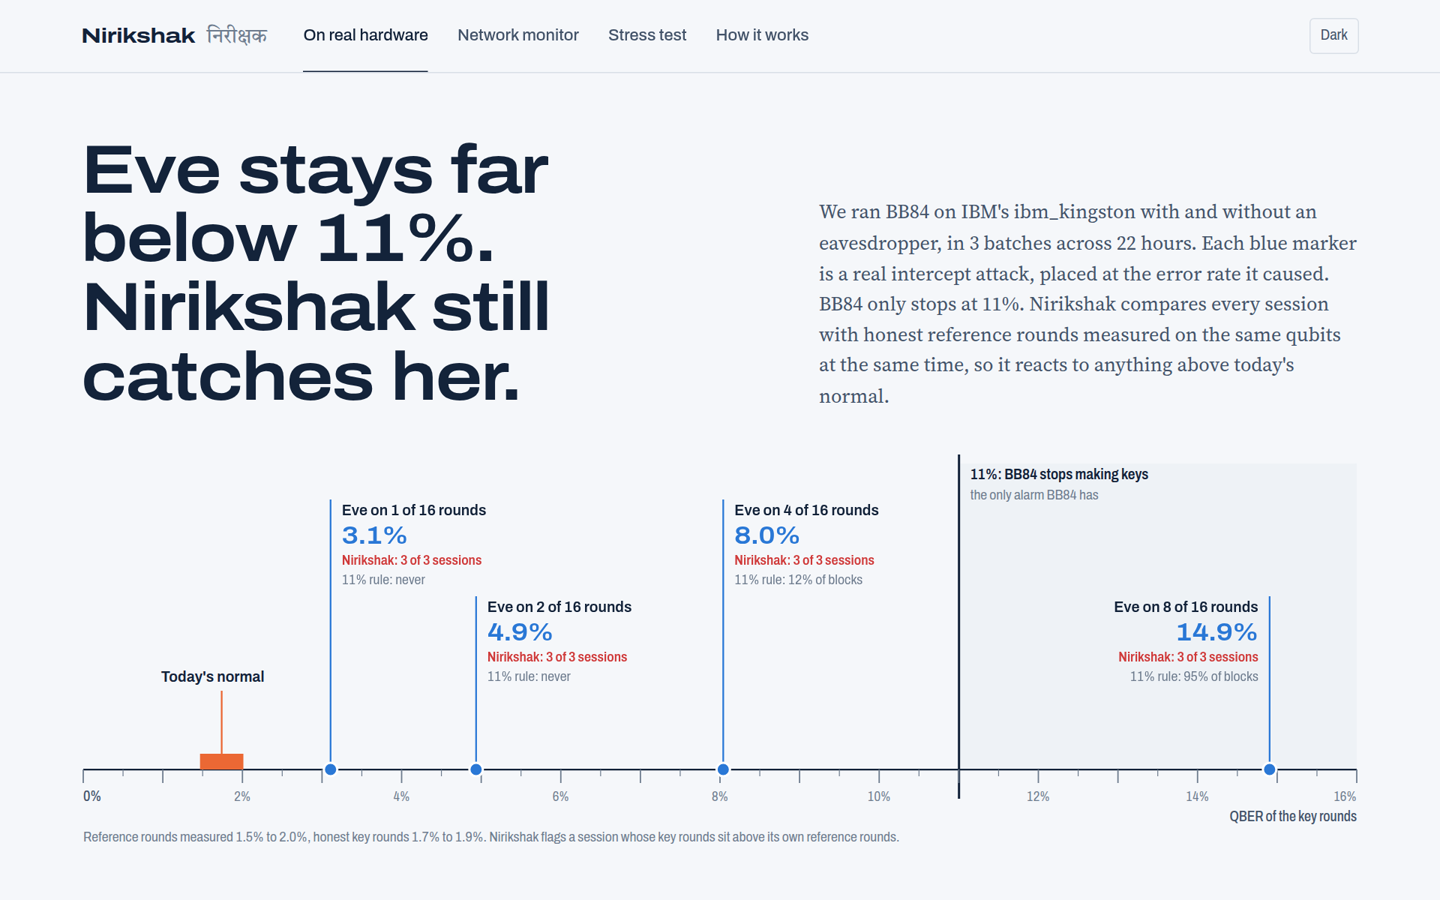
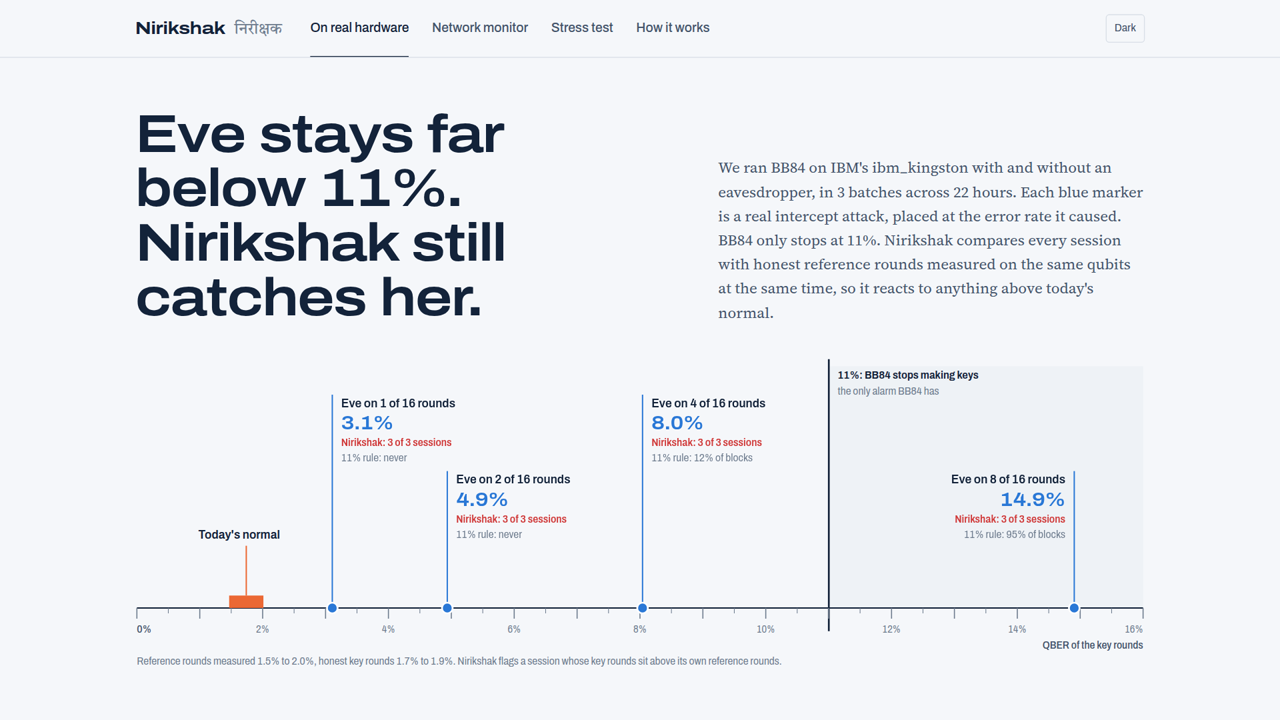
docs: play the demo in the README and match the preview sizes
- Embed the first two minutes of the demo (title card and explainer,
  9.5 MB, uploaded to GitHub) so it plays in the README; the full 4:46
  video stays on YouTube.
- Re-capture the web app screenshot at 16:9 and use YouTube's 16:9
  thumbnail, so the two previews under the project table are the
  same size.

diff --git a/README.md b/README.md
@@ -37,12 +37,17 @@ honest blocks once noise shifted.
 | **Live app** | [vtu-qiskit-fall-fest-2026.github.io/vtu-hc-essential-engineers](https://vtu-qiskit-fall-fest-2026.github.io/vtu-hc-essential-engineers/) |
 | **Slides** | [PDF](docs/VTU-QFF-HC-0173.pdf) · [PPTX](docs/VTU-QFF-HC-0173.pptx) |
 
-<a href="https://vtu-qiskit-fall-fest-2026.github.io/vtu-hc-essential-engineers/"><img src="docs/web_app.png" alt="Nirikshak web app: real ibm_kingston attacks against the 11% rule" width="58%"></a>
-<a href="https://youtu.be/gO9v1e-yHNs"><img src="https://img.youtube.com/vi/gO9v1e-yHNs/hqdefault.jpg" alt="Watch the 4:46 demo video" width="38%"></a>
+<a href="https://vtu-qiskit-fall-fest-2026.github.io/vtu-hc-essential-engineers/"><img src="docs/web_app.png" alt="Nirikshak web app: real ibm_kingston attacks against the 11% rule" width="49%"></a>
+<a href="https://youtu.be/gO9v1e-yHNs"><img src="https://img.youtube.com/vi/gO9v1e-yHNs/maxresdefault.jpg" alt="Watch the 4:46 demo video" width="49%"></a>
 
-*Left: the live app (every marker is a real attack on `ibm_kingston`). Right: the demo video.*
+*Left: the live app (every marker is a real attack on `ibm_kingston`). Right: the full demo video on YouTube.*
 
 </div>
+
+**Watch here:** the first two minutes of the demo (the problem, how Nirikshak works, the results). The full
+4:46 video, including the tour of the app, is on [YouTube](https://youtu.be/gO9v1e-yHNs).
+
+https://github.com/user-attachments/assets/1529200a-6800-448d-9514-07f3fd6f8d55
 
 ---
 
